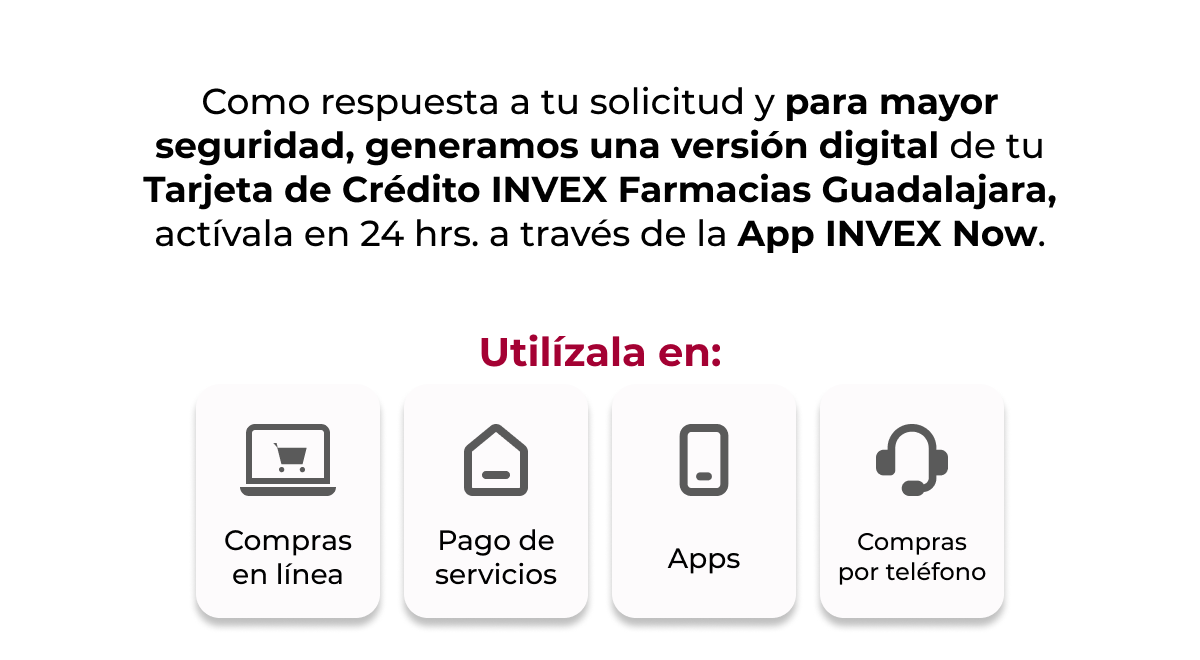
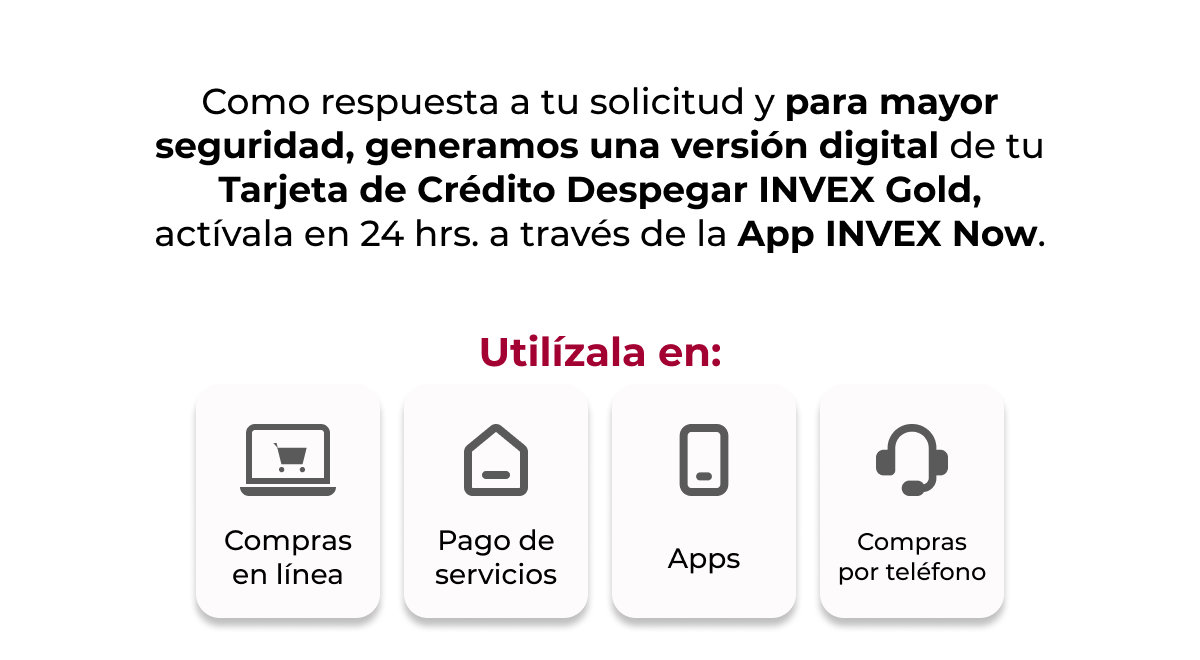
novenomailing

Changed region(s): [[0.1233, 0.2424, 0.8942, 0.3333]]

diff --git a/22D-DespegarGold/22D-DespegarGold.html b/22D-DespegarGold/22D-DespegarGold.html
@@ -1,7 +1,7 @@
 <!doctype html>
 <html>
   <head>
-    <title>22D-Fragua</title>
+    <title>22D-Despegar Gold</title>
     <meta http-equiv="Content-Type" content="text/html; charset=UTF-8" />
     <meta name="viewport" content="width=device-width, initial-scale=1.0" />
     <link rel="preconnect" href="https://fonts.googleapis.com" />
